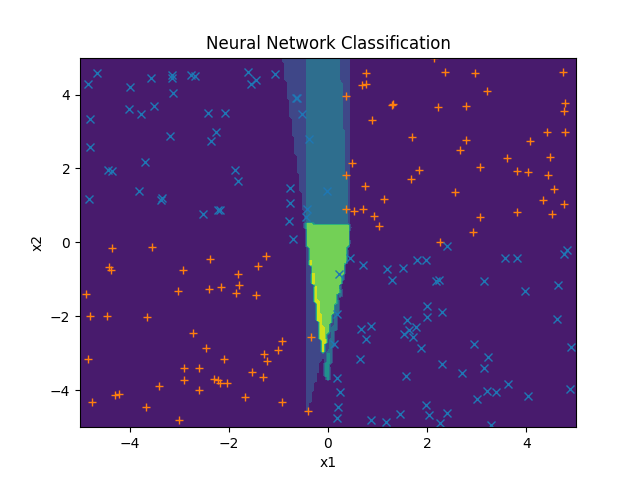
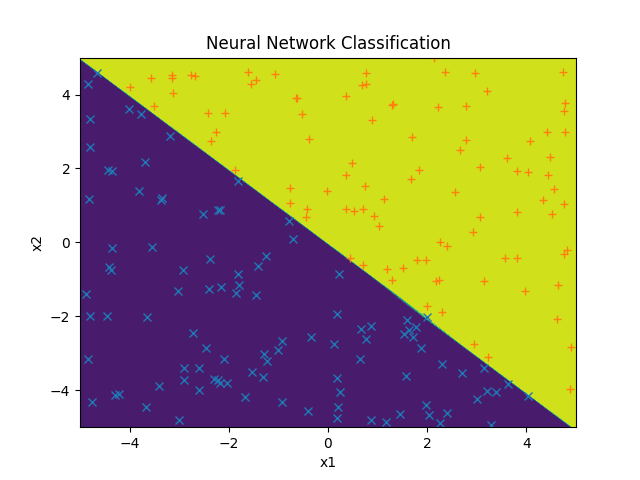
working on sum

diff --git a/neural_network/code/neural_network.py b/neural_network/code/neural_network.py
@@ -116,18 +116,18 @@ class NeuralNetwork:
             inp = inputs[i]
 
             dz2 = y_hat - y
-            dw2 = (1 / num_cases) * np.dot(dz2, np.transpose(a[1]))
-            db2 = (1 / num_cases) * np.sum(dz2, axis=1)
+            dw2 = np.dot(dz2, np.transpose(a[1]))
+            db2 = np.sum(dz2, axis=1)
 
             dz1 = np.multiply(np.dot(np.transpose(self.weights[2]), dz2), 1 - np.power(a[1], 2))
-            dw1 = (1 / num_cases) * np.dot(dz1, np.transpose(inp))
-            db1 = (1 / num_cases) * np.sum(dz1, axis=1)
+            dw1 = np.dot(dz1, np.transpose(inp))
+            db1 = np.sum(dz1, axis=1)
 
-            biases_gradient[1] += db1
-            biases_gradient[2] += db2
+            biases_gradient[1] += db1 / num_cases
+            biases_gradient[2] += db2 / num_cases
 
-            weights_gradient[1] += dw1
-            weights_gradient[2] += dw2
+            weights_gradient[1] += dw1 / num_cases
+            weights_gradient[2] += dw2 / num_cases
 
         return weights_gradient, biases_gradient
 

diff --git a/neural_network/code/test_neural_network.py b/neural_network/code/test_neural_network.py
@@ -6,8 +6,8 @@ from utils import sum_gt_zero, xor
 
 num_cases = 200  # number of auto-generated cases
 num_epochs = 1000  # number of epochs for training
-# classification_function = sum_gt_zero  # selects sum_gt_zero as the classification function
-classification_function = xor  # selects xor as the classification function
+classification_function = sum_gt_zero  # selects sum_gt_zero as the classification function
+# classification_function = xor  # selects xor as the classification function
 # Figure format used for saving figures
 fig_format = 'png'
 # fig_format = 'svg'
@@ -41,7 +41,7 @@ for i in range(len(negatives)):
     negatives_array[1, i] = negatives[i][1, 0]
 
 # Creating and training the neural network
-neural_network = NeuralNetwork(2, 10, 1, 6.0)
+neural_network = NeuralNetwork(2, 10, 1, 6)
 costs = np.zeros(num_epochs)
 for i in range(num_epochs):
     neural_network.back_propagation(inputs, expected_outputs)
